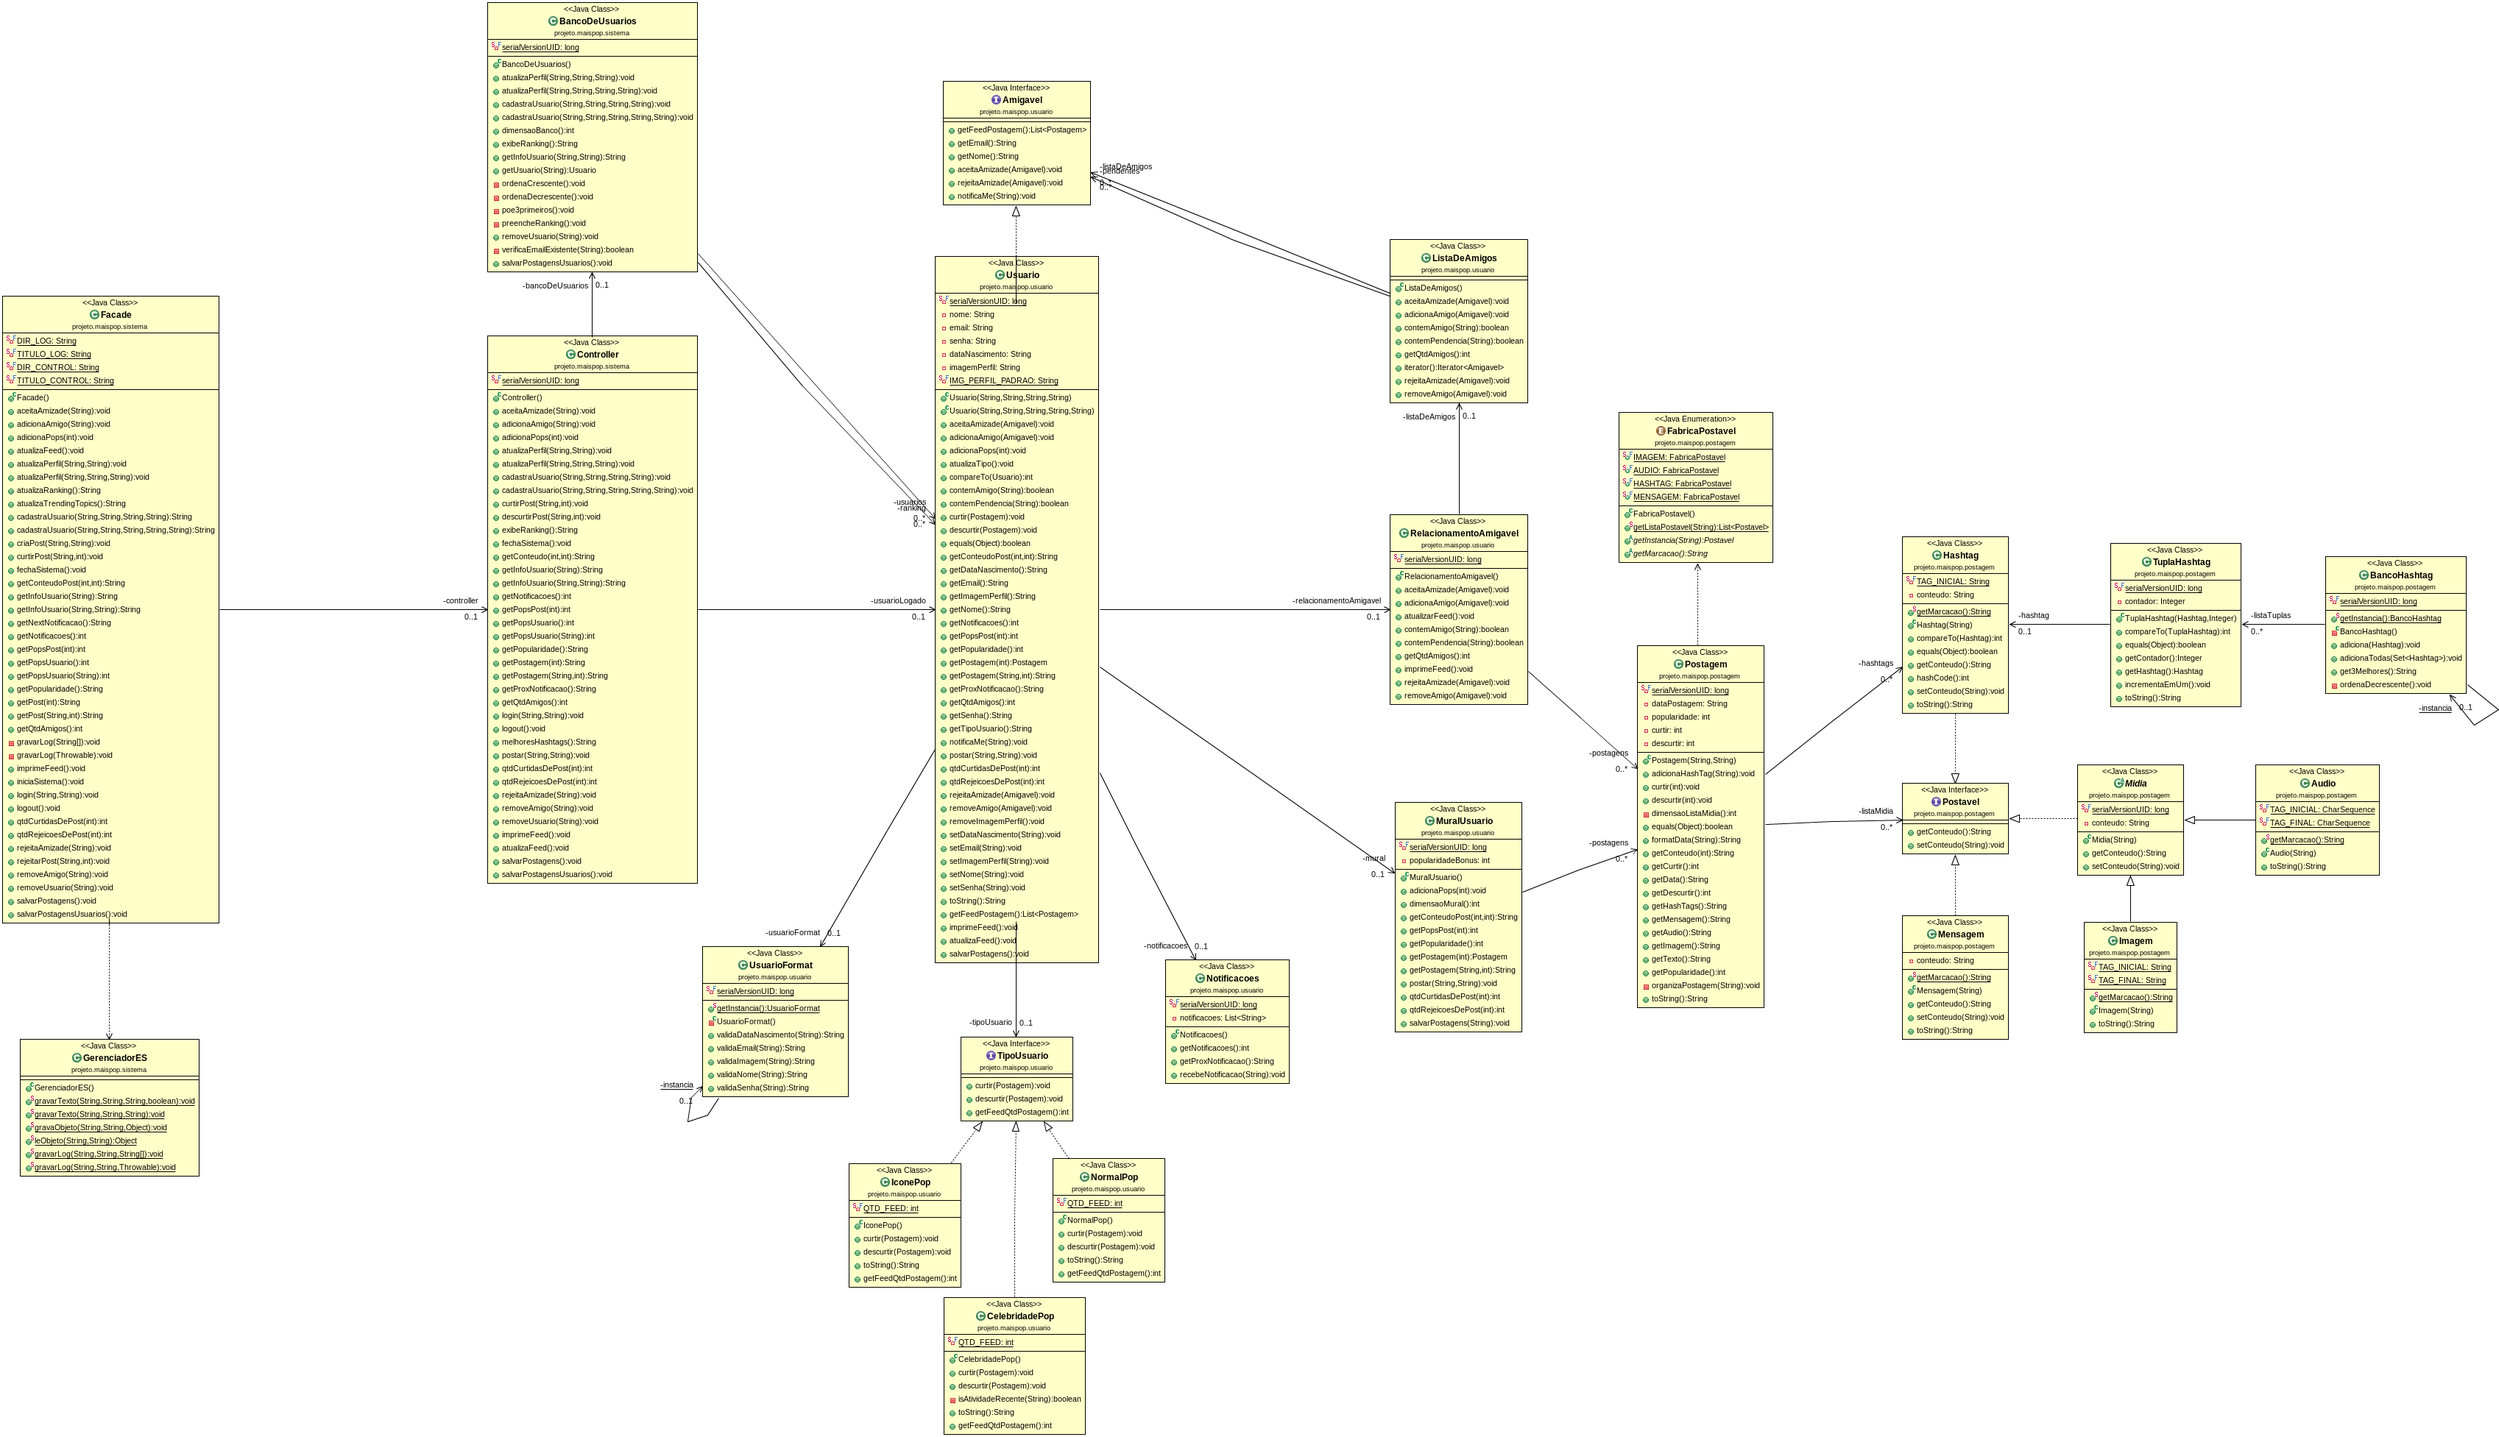
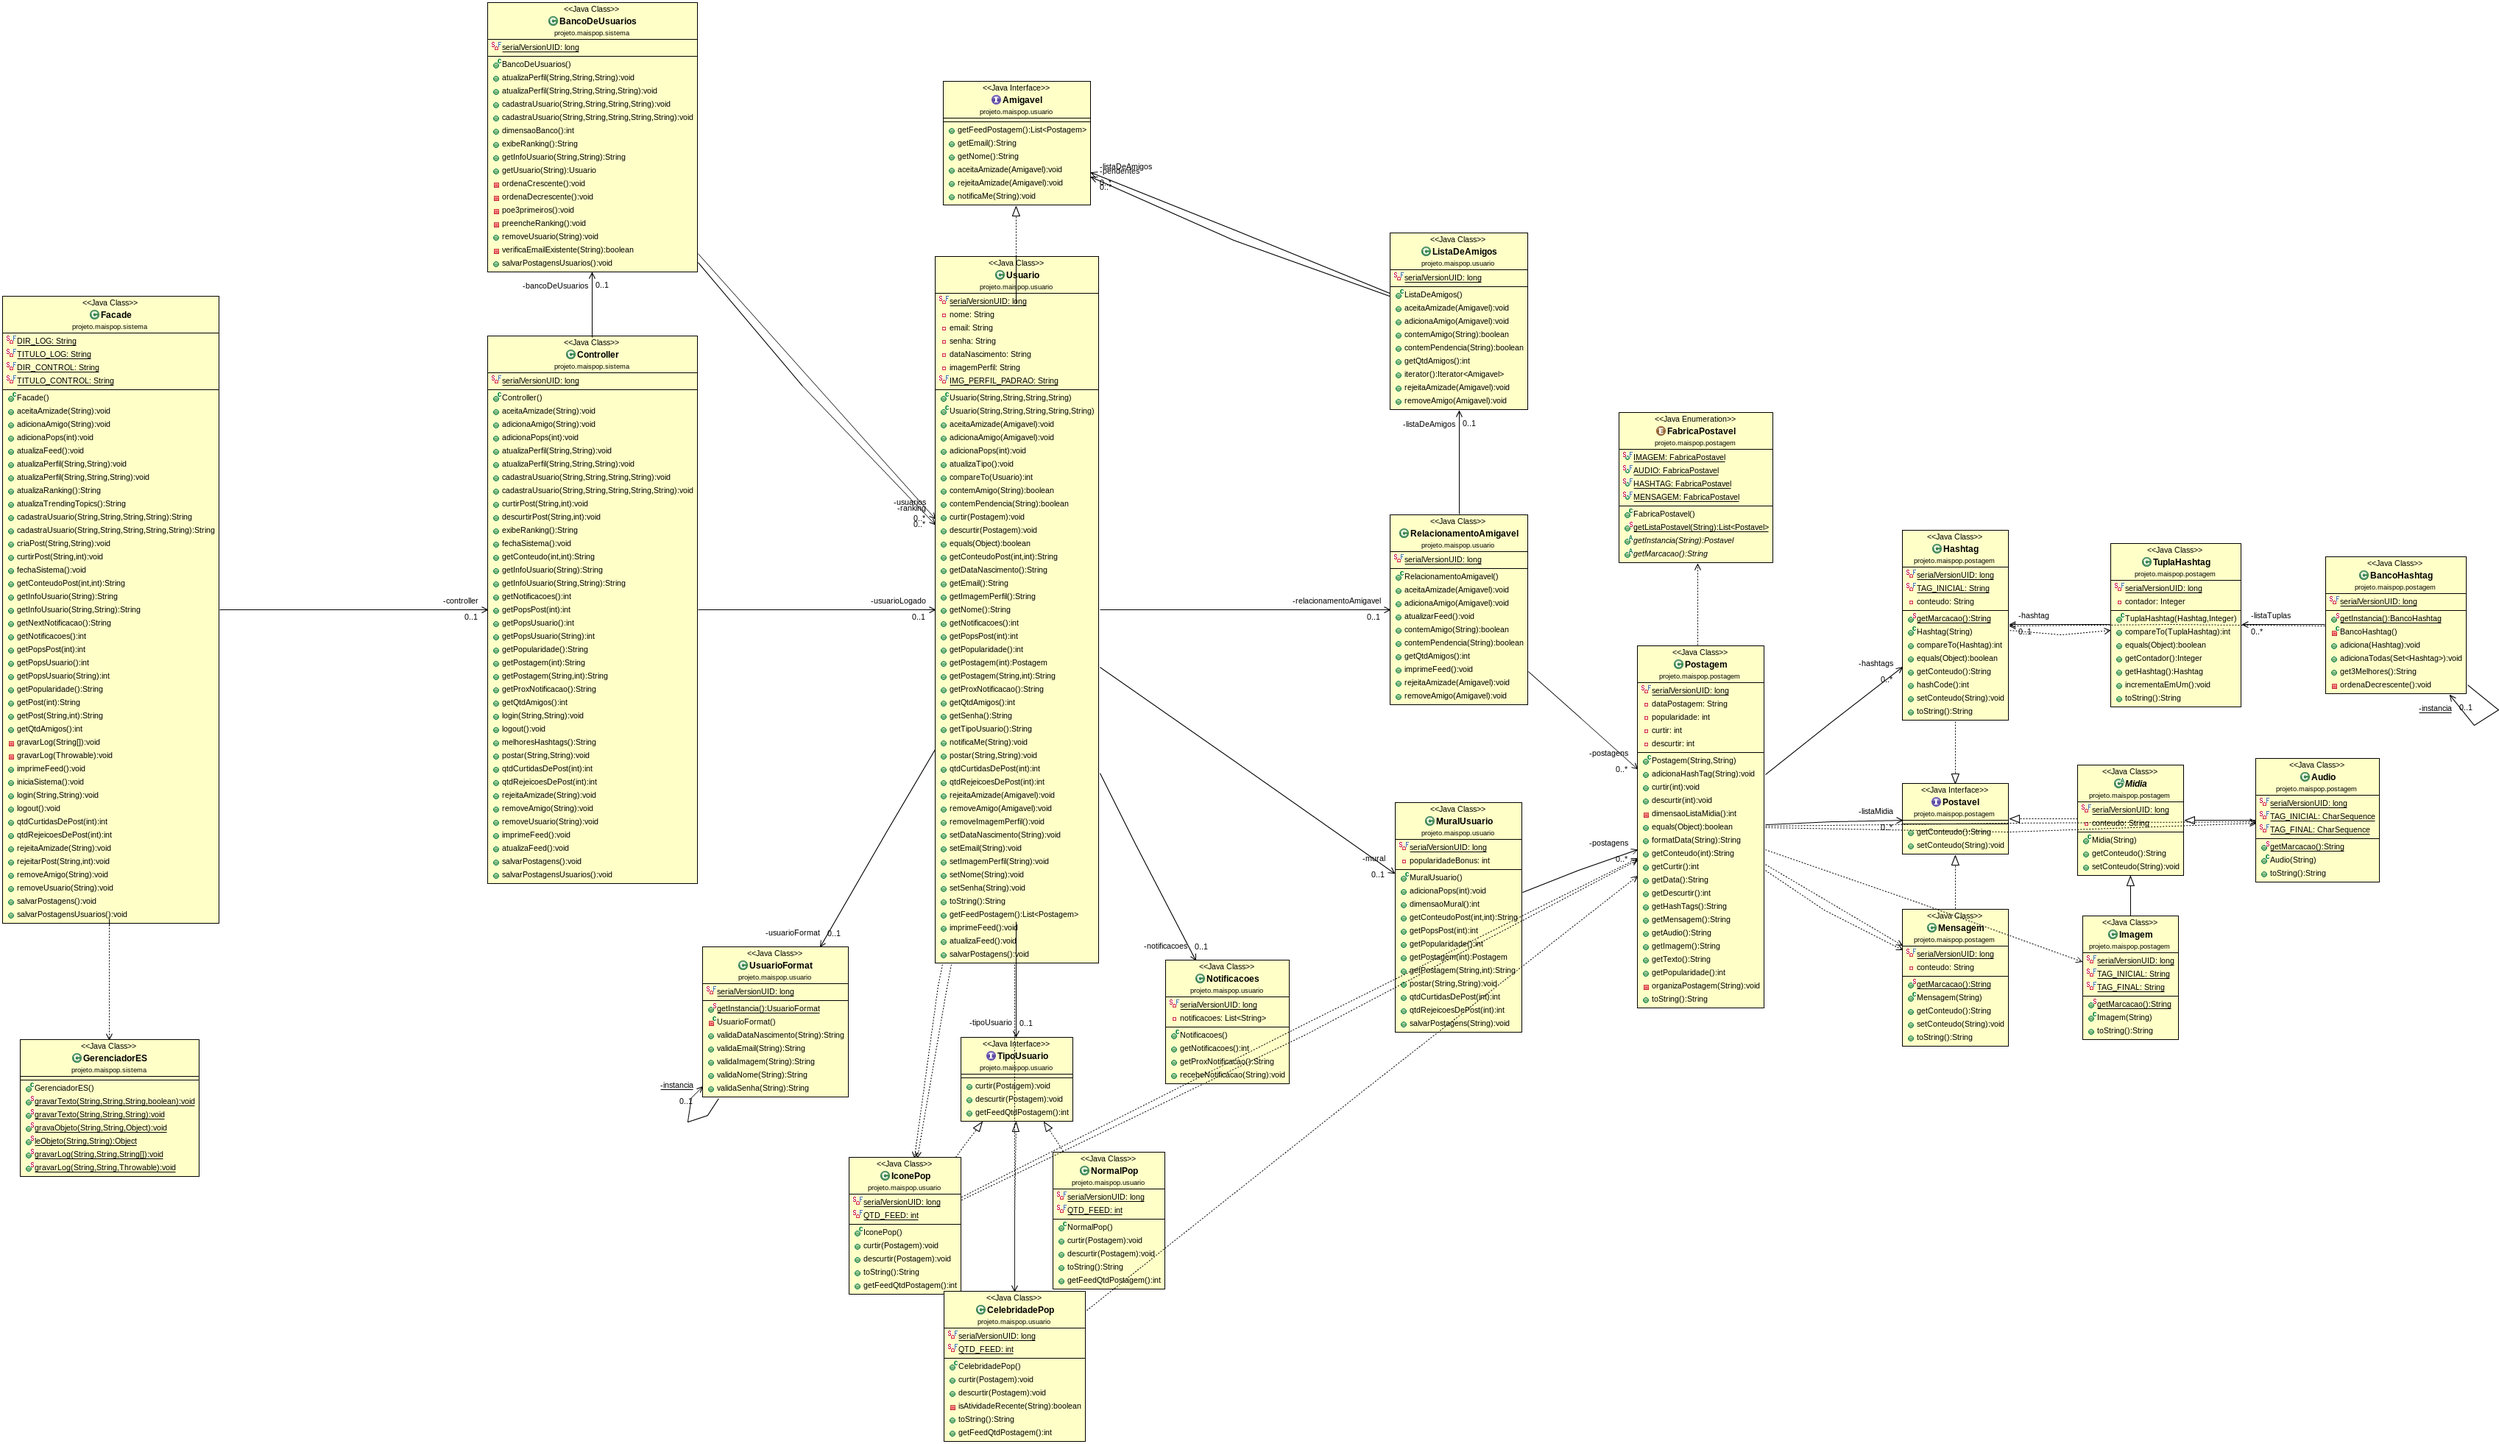
adicionado serializable

diff --git a/workspaceProjeto/+Pop/src/projeto/maispop/postagem/Hashtag.java b/workspaceProjeto/+Pop/src/projeto/maispop/postagem/Hashtag.java
@@ -13,6 +13,8 @@ import projeto.maispop.excecoes.EntradaException;
  */
 public class Hashtag implements Postavel, Comparable<Hashtag> {
 
+	private static final long serialVersionUID = 5869536888630180039L;
+
 	/**
 	 * Retorna a formatacao adequada para a representacao do objeto
 	 * <code>Hashtag</code>.

diff --git a/workspaceProjeto/+Pop/src/projeto/maispop/postagem/Mensagem.java b/workspaceProjeto/+Pop/src/projeto/maispop/postagem/Mensagem.java
@@ -12,6 +12,8 @@ import projeto.maispop.excecoes.EntradaException;
  */
 public class Mensagem implements Postavel {
 
+	private static final long serialVersionUID = -8593602982356135802L;
+
 	/**
 	 * Retorna a formatacao adequada para a representacao do objeto
 	 * <code>Mensagem</code>.

diff --git a/workspaceProjeto/+Pop/src/projeto/maispop/usuario/CelebridadePop.java b/workspaceProjeto/+Pop/src/projeto/maispop/usuario/CelebridadePop.java
@@ -6,6 +6,7 @@ import java.time.format.DateTimeFormatter;
 import projeto.maispop.postagem.Postagem;
 
 public class CelebridadePop implements TipoUsuario {
+	private static final long serialVersionUID = -2234336052784070571L;
 	private static final int QTD_FEED = 4;
 
 	@Override

diff --git a/workspaceProjeto/+Pop/src/projeto/maispop/postagem/Imagem.java b/workspaceProjeto/+Pop/src/projeto/maispop/postagem/Imagem.java
@@ -11,6 +11,8 @@ import projeto.maispop.excecoes.EntradaException;
  */
 public class Imagem extends Midia {
 	
+	private static final long serialVersionUID = 2919863538511814646L;
+
 	/**
 	 * Retorna a formatacao adequada para a representacao do objeto
 	 * <code>Imagem</code>.

diff --git a/workspaceProjeto/+Pop/src/projeto/maispop/postagem/Audio.java b/workspaceProjeto/+Pop/src/projeto/maispop/postagem/Audio.java
@@ -12,6 +12,8 @@ import projeto.maispop.excecoes.EntradaException;
  */
 public class Audio extends Midia {
 
+	private static final long serialVersionUID = -3158309023696281505L;
+
 	/**
 	 * Retorna a formatacao adequada para a representacao do objeto
 	 * <code>Audio</code>.

diff --git a/workspaceProjeto/+Pop/src/projeto/maispop/usuario/IconePop.java b/workspaceProjeto/+Pop/src/projeto/maispop/usuario/IconePop.java
@@ -4,6 +4,7 @@ import projeto.maispop.excecoes.EntradaException;
 import projeto.maispop.postagem.Postagem;
 
 public class IconePop implements TipoUsuario {
+	private static final long serialVersionUID = 4267898189282577383L;
 	private static final int QTD_FEED = 6;
 
 	

diff --git a/workspaceProjeto/+Pop/src/projeto/maispop/usuario/ListaDeAmigos.java b/workspaceProjeto/+Pop/src/projeto/maispop/usuario/ListaDeAmigos.java
@@ -9,6 +9,7 @@ import java.util.Set;
 
 public class ListaDeAmigos implements Iterable<Amigavel>, Serializable {
 
+	private static final long serialVersionUID = 4369180364480947175L;
 	private List<Amigavel> listaDeAmigos;
 	private Set<Amigavel> pendentes;
 

diff --git a/workspaceProjeto/+Pop/src/projeto/maispop/usuario/NormalPop.java b/workspaceProjeto/+Pop/src/projeto/maispop/usuario/NormalPop.java
@@ -4,6 +4,7 @@ import projeto.maispop.postagem.Postagem;
 
 public class NormalPop implements TipoUsuario {
 	
+	private static final long serialVersionUID = 5903352679915063650L;
 	private static final int QTD_FEED = 2;
 
     @Override
